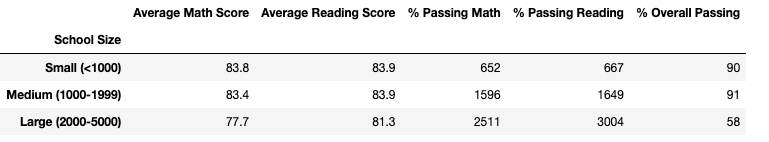
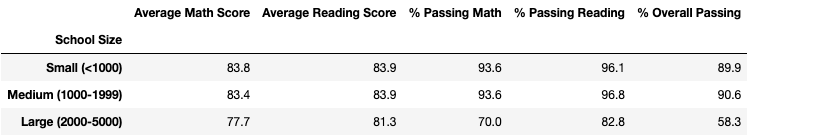
updating again..

diff --git a/README.md b/README.md
@@ -10,7 +10,7 @@ The school board has notified Maria and her supervisor that the students_complet
 
 ### How is the district summary affected?
 
-District  Summary is not significantly affected by removing the 9th graders results.By removing the 467 students on 9th grade , the effect is a very slight reduction on scores, barely affecting the overall passing from 65% to 64.9%
+District  Summary is not significantly affected by removing the 9th graders results.By removing the 467 students on 9th grade , the effect is a very slight reduction on scores, that can only be seen with 1 or more  significant digits, affecting the overall passing % from 65.2% to 64.9%. 
 
 * Initial Analysis
 ![Summary1](Resources/Summary1.png)
@@ -20,7 +20,7 @@ District  Summary is not significantly affected by removing the 9th graders resu
 
 ### How is the school summary affected?
 
-THS scores are slightly different, lower compared to the initial analysis. 
+THS scores are slightly different, average reading score is slightly higher on updated Analysis and all other metrics are about 0.015-0.03 lower than original. 
 
 * Initial Analysis
 
@@ -49,39 +49,48 @@ Thomas High School is still  on same rank based on overall passing %, even thoug
 There is no effect to scores on other grades and high schools, only difference is now 9th grade for THS is blank. 
 
 
-
 #### Math Scores 
+
 * Initial Analysis
+
 ![mathscores1](Resources/mathscores1.png)
 
 * Updated Analysis
+
 ![mathscores2](Resources/mathscores2.png)
 
 #### Reading Scores
 
 * Initial Analysis
+
 ![readscores1](Resources/readscores1.png)
 
 * Updated Analysis
+
 ![readscores2](Resources/readscores2.png)
 
 
 ### Scores by school spending:
 
 
+
 * Initial Analysis 
+
 ![SpendingRanges1](Resources/SpendingRanges1.png)
 
 * Updated Analysis
+
 ![SpendingRanges2](Resources/SpendingRanges2.png)
 
 ### Scores by school size
 
 
 * Initial Analysis
+
 ![SchoolSize1](Resources/SchoolSize1.png)
 
 * Updated Analysis
+
 ![SchoolSize2](Resources/SchoolSize2.png)
 
 
